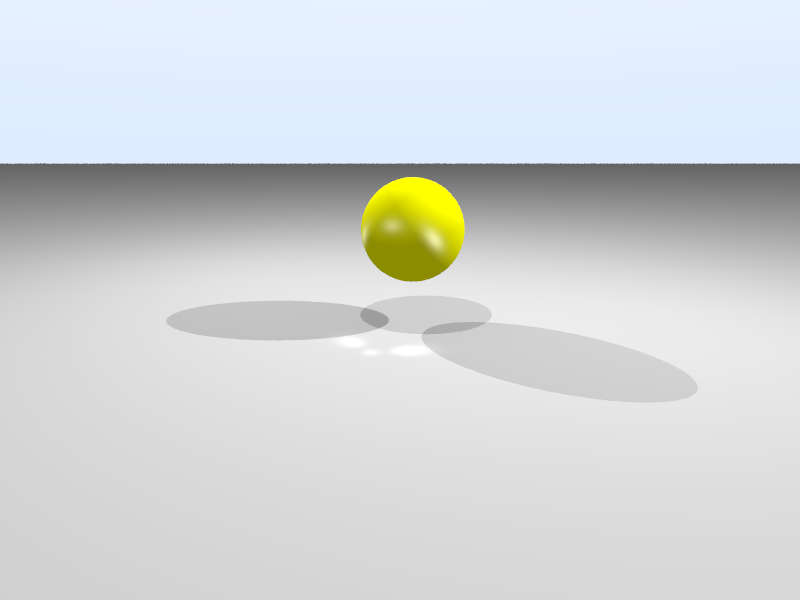
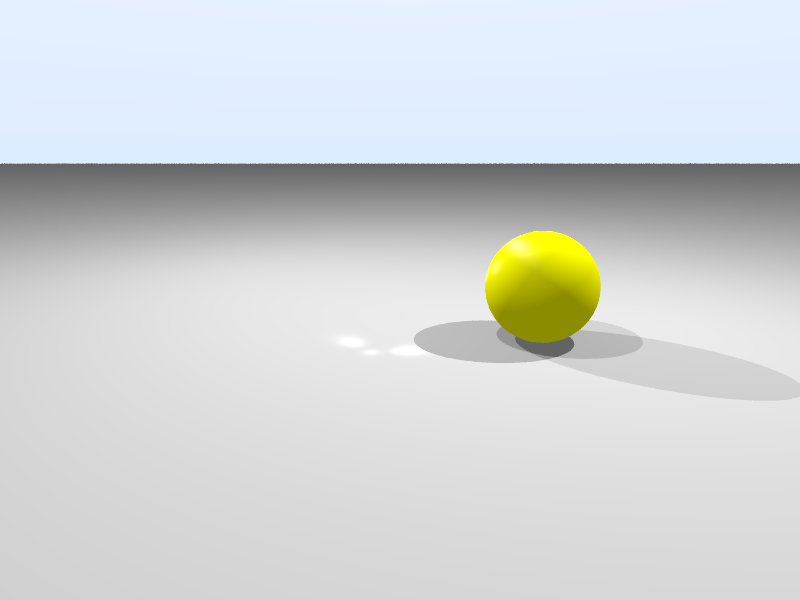
maj

Changed region(s): [[0.1875, 0.27, 0.8125, 0.66]]

diff --git a/src/main.rs b/src/main.rs
@@ -77,6 +77,10 @@ fn main() -> std::io::Result<()> {
     .template("[{elapsed_precise}] {bar:40.cyan/blue} {pos}/{len} pixels ({eta})")
     .unwrap()
     .progress_chars("=>-"));
+
+    // Création du monde avec des sphères aléatoires
+    // let world = World::random_spheres(); // Génère 20 sphères aléatoires
+
     // Création du World et ajout des objets
     let mut world = World::new();
 
@@ -88,7 +92,7 @@ fn main() -> std::io::Result<()> {
     )));
 
 
-    // Ajout de plusieurs sphères
+    // // Ajout de plusieurs sphères
     // world.add(Box::new(Sphere::new(
     //     Vec3::new(0.0, 0.0, -1.5),
     //     0.5,
@@ -96,28 +100,28 @@ fn main() -> std::io::Result<()> {
     // )));
 
     world.add(Box::new(Sphere::new(
-        Vec3::new(0.0, 1.0, -1.5),
+        Vec3::new(2.0, 0.28, -1.5),
         0.8,
         Vec3::new(1.0, 1.0, 0.0),
     )));
 
     
     // Ajout de cylindres
-    // world.add(Box::new(Cylinder::new(
-    //     Vec3::new(0.0, -0.5, -3.0), // Base
-    //     Vec3::new(0.0, 1.0, 0.0),   // Axe parallèle à Y
-    //     0.5,                        // Rayon
-    //     1.0,                        // Hauteur
-    //     Vec3::new(0.3, 0.3, 0.8),   // Couleur
-    // )));
+    world.add(Box::new(Cylinder::new(
+        Vec3::new(-2.0, -0.5, 2.0), // Base
+        Vec3::new(0.0, 1.0, 0.0),   // Axe parallèle à Y
+        0.5,                        // Rayon
+        1.0,                        // Hauteur
+        Vec3::new(0.3, 0.3, 0.8),   // Couleur
+    )));
 
 
     // Ajout d'un cube avec des dimensions plus visibles
-    // world.add(Box::new(Cube::new(
-    //     Vec3::new(-1.0, -0.5, -2.0),    // Point minimum
-    //     Vec3::new(0.0, 0.5, -1.0),      // Point maximum
-    //     Vec3::new(0.8, 0.6, 0.2),       // Couleur (doré)
-    // )));
+    world.add(Box::new(Cube::new(
+        Vec3::new(-1.0, -0.5, -2.0),    // Point minimum
+        Vec3::new(0.0, 0.5, -1.0),      // Point maximum
+        Vec3::new(0.8, 0.6, 0.2),       // Couleur (doré)
+    )));
 
     // Création des lumières
     let lights = vec![
@@ -133,6 +137,14 @@ fn main() -> std::io::Result<()> {
         60.0,                         // Angle de champ plus large
         (width as f64) / (height as f64),
     );
+   
+    // let camera = Camera::new(
+    //     Vec3::new(0.0, 1.2, 10.0),    // Position basse, plus reculée
+    //     Vec3::new(0.0, 1.0, -1.0),    // Légère inclinaison vers le bas
+    //     Vec3::new(0.0, 1.0, 0.0),     // Vecteur "up" standard
+    //     35.0,                          // Angle plus étroit pour un effet plus cinématographique
+    //     (width as f64) / (height as f64),
+    // );
 
 
 

diff --git a/src/config/world.rs b/src/config/world.rs
@@ -1,5 +1,11 @@
+use rand::Rng;
+
+use crate::plane::Plane;
+use crate::sphere::Sphere;
+
 use super::hittable::*;
 use super::ray::*;
+use super::vec3::Vec3;
 
 pub struct World {
     pub objects: Vec<Box<dyn Hittable>>,
@@ -30,5 +36,21 @@ impl World {
         }
 
         closest_hit
+    }
+
+    pub fn random_spheres() -> Self {
+        let mut world = World::new();
+
+        // Sol gris clair
+        world.add(Box::new(Plane::new(
+            Vec3::new(0.0, -0.5, 0.0),
+            Vec3::new(0.0, 1.0, 0.0),
+            Vec3::new(0.8, 0.8, 0.8),
+        )));
+
+        // Ajout des grandes sphères dominantes
+      
+
+        world
     }
 }
